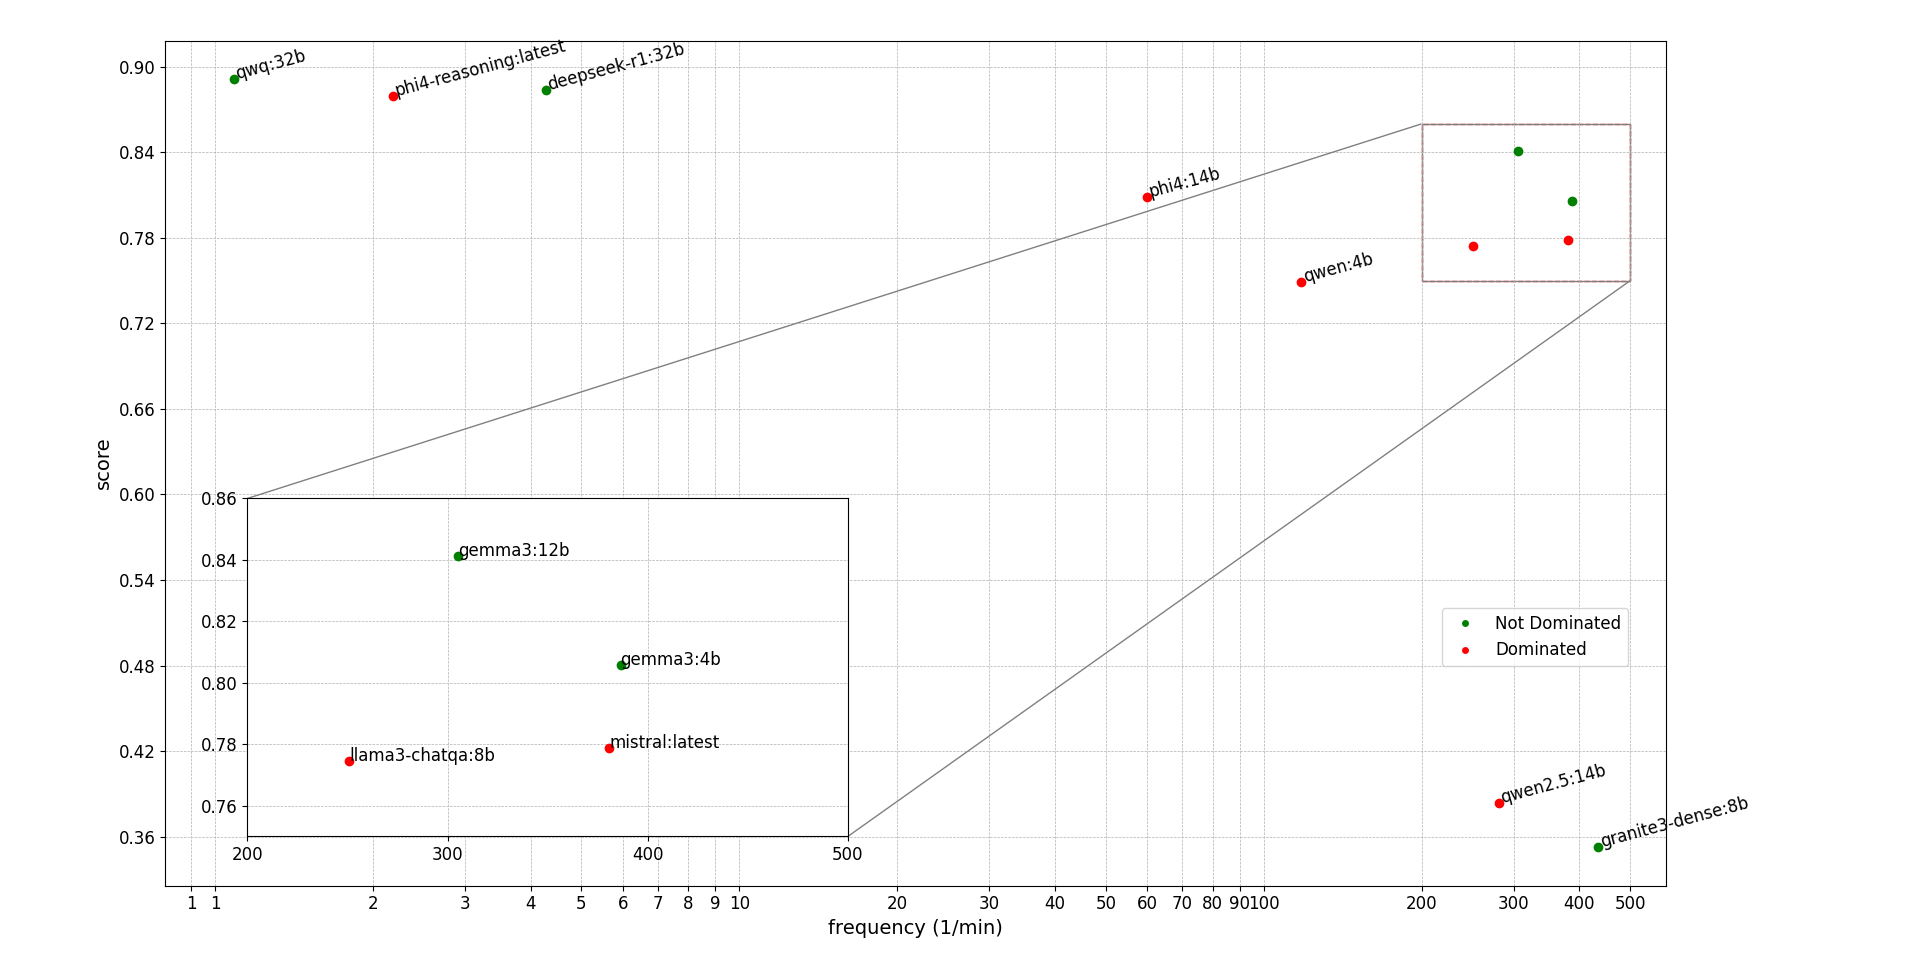
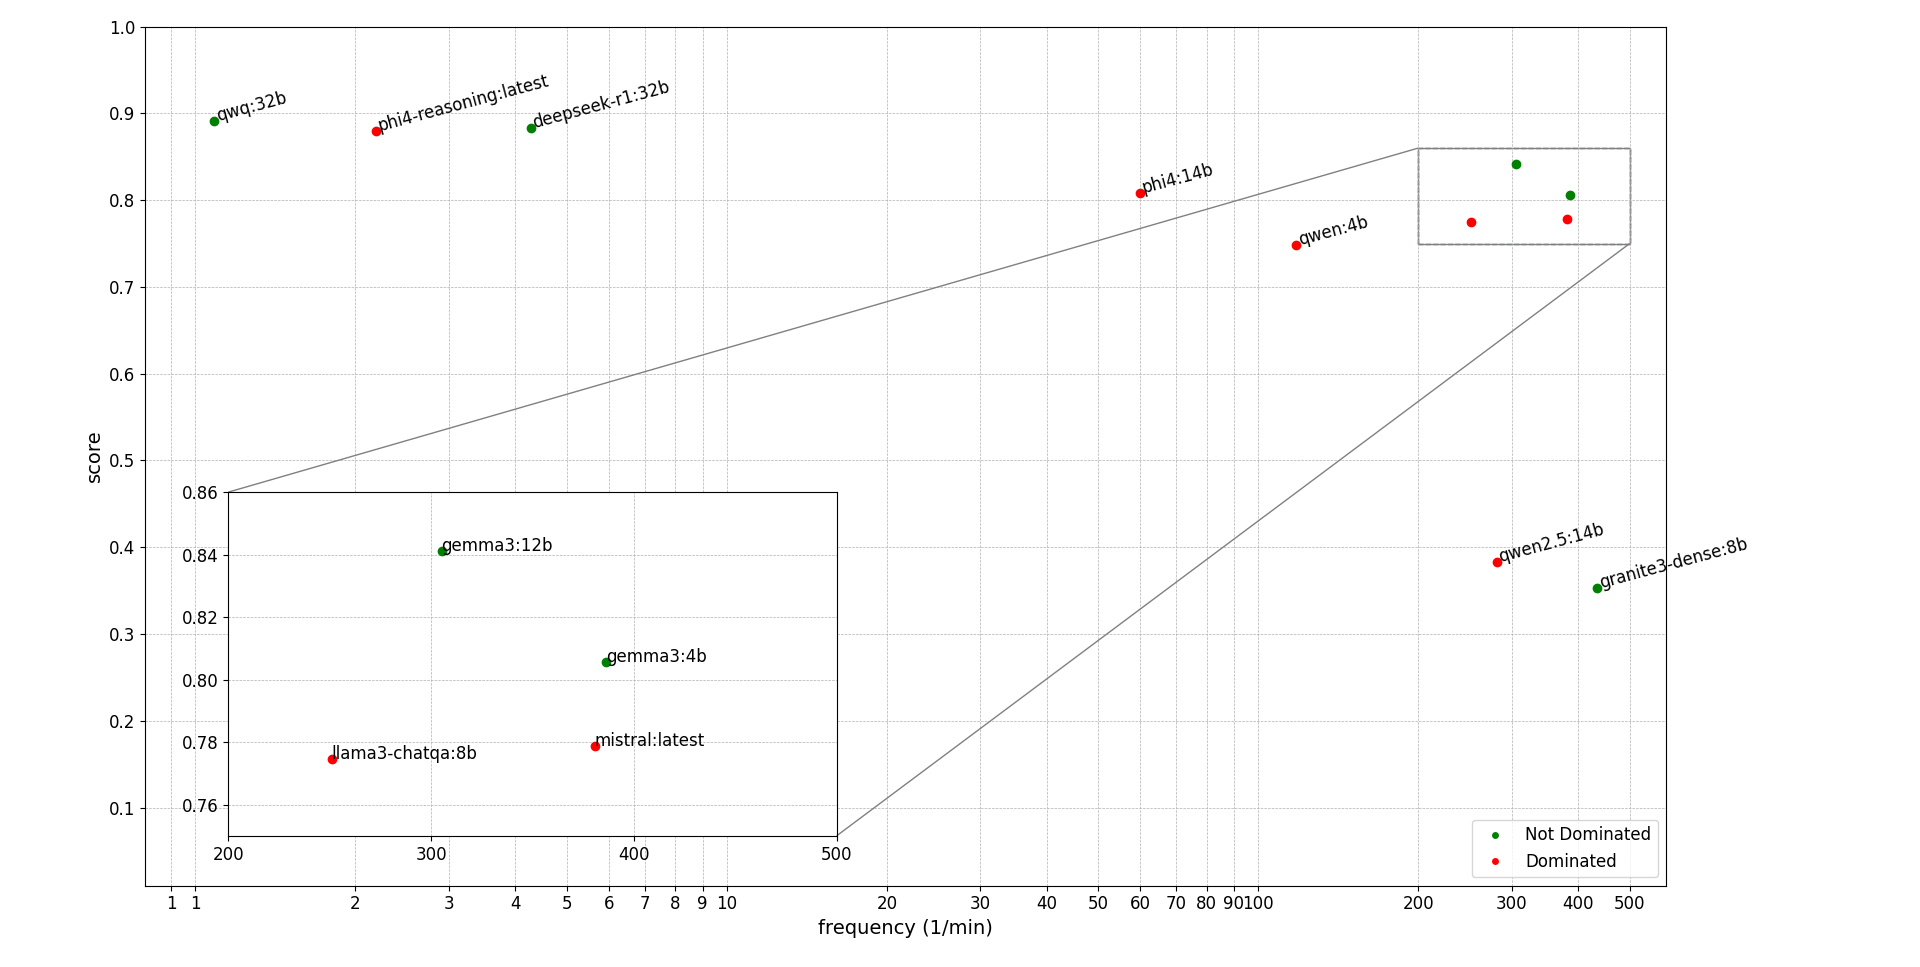
fixed graphs

diff --git a/comparison/dataset_2/plot_points_second_score.py b/comparison/dataset_2/plot_points_second_score.py
@@ -30,13 +30,13 @@ for i in range(len(x)):
 
 # Create plot
 fig, ax = plt.subplots(figsize=(10, 8))
-
+ax.set_ylim(bottom=0.01, top=1)
 # Plot points
 for i in range(len(x)):
     ax.plot(x[i], y[i], 'o', color=colors[i], markersize=6)
 
 ax.set_xscale('log')  # Keep x-axis as log scale
-# Removed y-axis log scale
+ax.set_yscale('linear')  # Changed from 'log' to 'linear'
 
 # Labels and title
 ax.set_xlabel('frequency (1/min)', fontsize=14)
@@ -69,7 +69,6 @@ legend_elements = [
 
 ax.legend(handles=legend_elements, 
           loc='lower right', 
-          bbox_to_anchor=(0.98, 0.25),
           fontsize=12)
 
 # --- Zoomed inset ---

diff --git a/comparison/dataset_2/plot_points_second_assertiveness.py b/comparison/dataset_2/plot_points_second_assertiveness.py
@@ -105,7 +105,7 @@ for i in range(len(x)):
     label = labels[i]
     if (zoom_x_min <= freq <= zoom_x_max) and (zoom_y_min <= assertiv <= zoom_y_max):
         axins.annotate(label, (freq, assertiv), fontsize=12,
-                       xytext=(0, 0), textcoords='offset points', rotation=30)
+                       xytext=(0, 0), textcoords='offset points')
         labels[i] = ""  # Remove from main plot annotation
 
 # Annotate points in main plot
